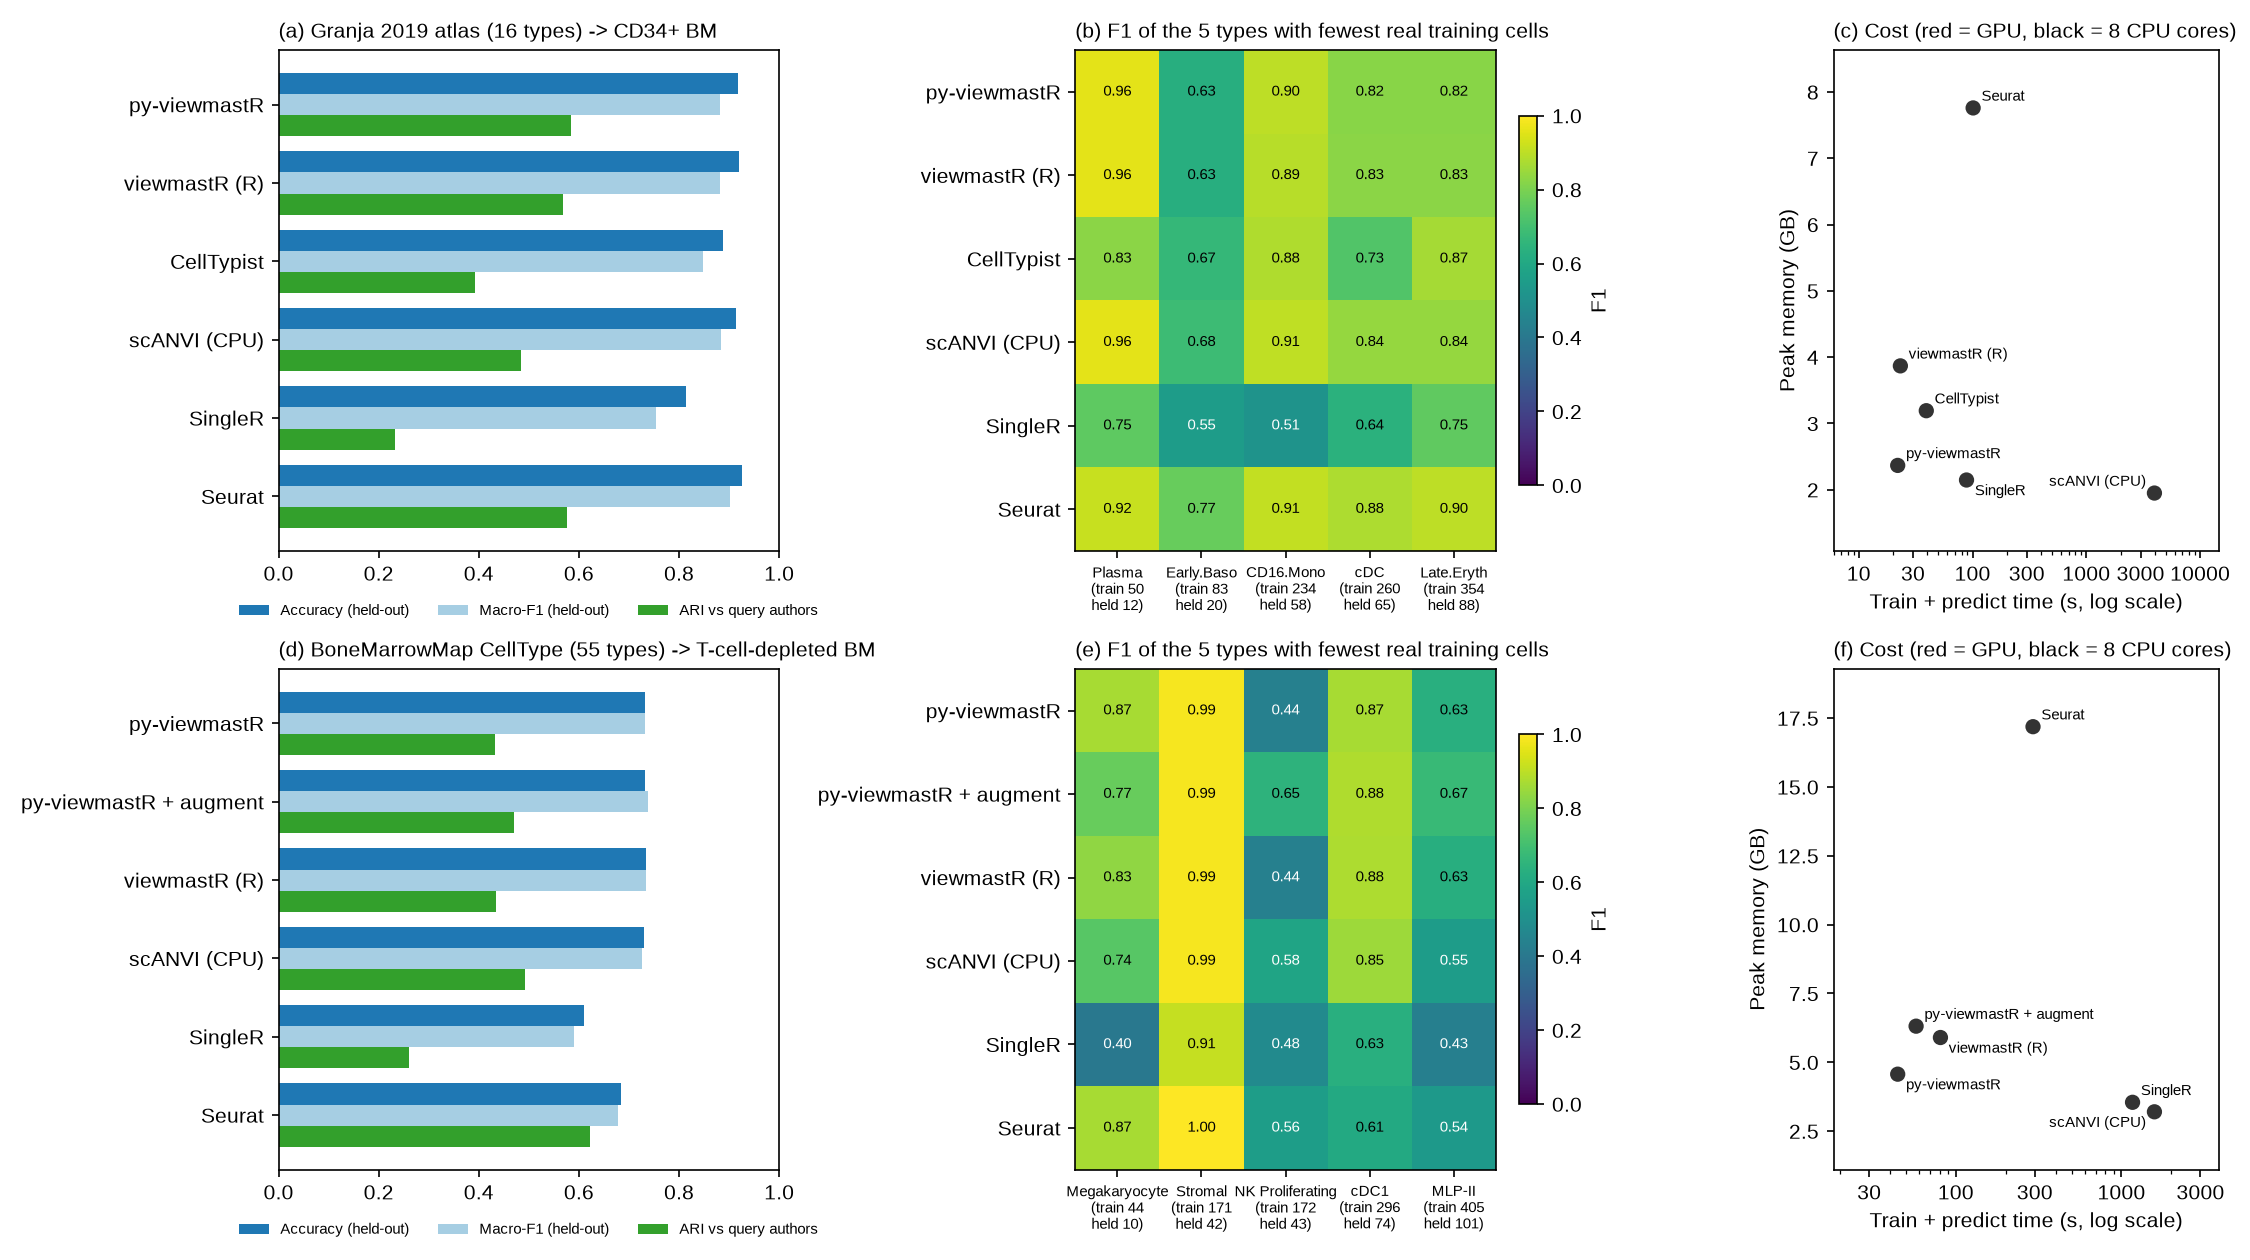
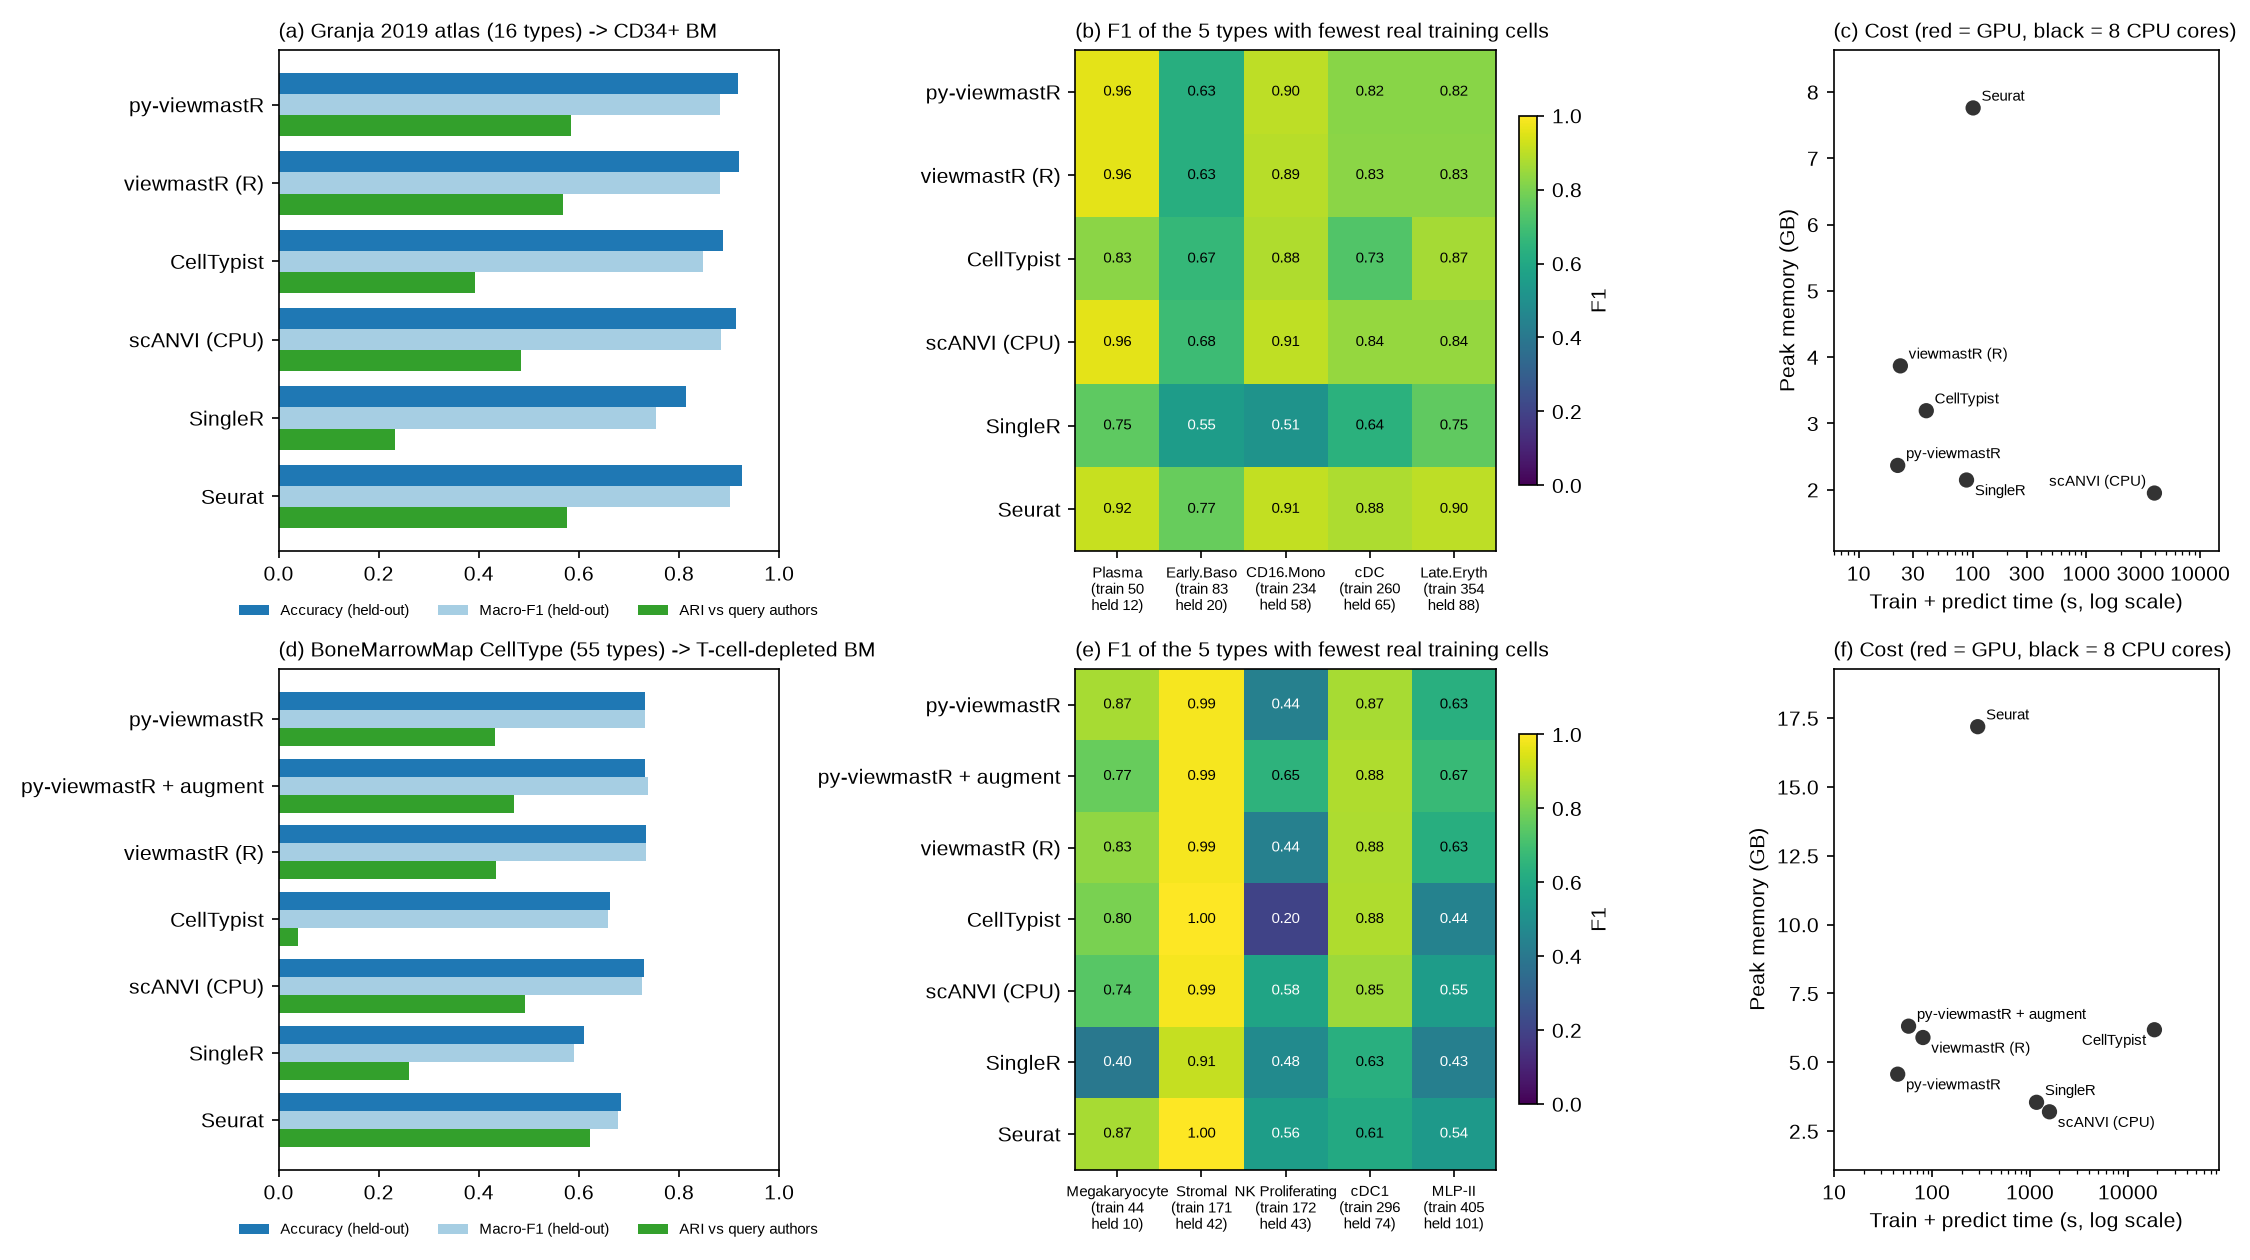
Add the CellTypist bmm row to the benchmark
The CellTypist bmm job finished after 5.2 hours. Add its row to the
metrics and rare-type tables, a short section on its low query ARI,
and fewer x-axis ticks on cost panels that span three or more decades.

diff --git a/benchmarks/summarize.py b/benchmarks/summarize.py
@@ -128,7 +128,7 @@ def main():
         cost_labels.append((ax, names, tot.to_numpy(), r["peak_gb"].to_numpy()))
         ax.set_xscale("log")
         span = np.log10(tot.max() / tot.min())
-        ax.xaxis.set_major_locator(matplotlib.ticker.LogLocator(subs=(1, 2, 5) if span < 1.5 else (1, 3)))
+        ax.xaxis.set_major_locator(matplotlib.ticker.LogLocator(subs=(1, 2, 5) if span < 1.5 else (1, 3) if span < 2.5 else (1,)))
         ax.xaxis.set_major_formatter(matplotlib.ticker.FuncFormatter(lambda v, _: f"{v:g}"))
         ax.xaxis.set_minor_formatter(matplotlib.ticker.NullFormatter())
         ax.margins(x=0.25, y=0.15)

diff --git a/docs/benchmark.md b/docs/benchmark.md
@@ -74,6 +74,7 @@ All settings are each tool's documented defaults, except where the table says ot
 | py-viewmastR | CPU | 0.732 | 0.732 | 0.433 | 0.693 | 44.1 | 0.5 | 4.6 |
 | py-viewmastR + augment | CPU | 0.732 | 0.738 | 0.470 | 0.699 | 57.1 | 0.5 | 6.3 |
 | viewmastR (R) | CPU | 0.734 | 0.734 | 0.434 | 0.696 | 74.8 | 6.0 | 5.9 |
+| CellTypist | CPU | 0.662 | 0.657 | 0.038 | 0.218 | 18,649.2 | 3.1 | 6.2 |
 | scANVI (CPU) | CPU | 0.729 | 0.726 | 0.492 | 0.660 | 1,580.7 | 0.6 | 3.2 |
 | SingleR | CPU | 0.611 | 0.591 | 0.260 | 0.515 | 46.6 | 1,119.8 | 3.5 |
 | Seurat | CPU | 0.683 | 0.678 | 0.622 | 0.710 | 87.6 | 204.8 | 17.2 |
@@ -100,15 +101,28 @@ Each column header gives the number of real training cells / held-out cells.
 | py-viewmastR | 0.87 | 0.99 | 0.44 | 0.87 | 0.63 |
 | py-viewmastR + augment | 0.77 | 0.99 | 0.65 | 0.88 | 0.67 |
 | viewmastR (R) | 0.83 | 0.99 | 0.44 | 0.88 | 0.63 |
+| CellTypist | 0.80 | 1.00 | 0.20 | 0.88 | 0.44 |
 | scANVI (CPU) | 0.74 | 0.99 | 0.58 | 0.85 | 0.55 |
 | SingleR | 0.40 | 0.91 | 0.48 | 0.63 | 0.43 |
 | Seurat | 0.87 | 1.00 | 0.56 | 0.61 | 0.54 |
+
+### CellTypist on `bmm`
+
+CellTypist ran with its default settings (no SGD, the stochastic gradient descent option). On `bmm`, training took 5.2 hours on 8 cores.
+
+| Reading | CellTypist | Range of the other six rows |
+|---|---|---|
+| Accuracy | 0.662 | 0.611 to 0.734 |
+| Macro-F1 | 0.657 | 0.591 to 0.738 |
+| ARI vs query authors | 0.038 | 0.260 to 0.622 |
+| Train time (h) | 5.2 | 0.01 to 0.44 |
+
+The ARI is low. The query predictions also spread over all 55 types. For example, 19 % of the query cells get the label Stromal. The other tools give Stromal to at most 0.3 % of the query cells. CellTypist offers `use_SGD=True` and `mini_batch=True` for large references. This page did not test them.
 
 ### Runs not in these results
 
 | Run | Status |
 |---|---|
-| CellTypist on `bmm` | Not finished with default settings (no SGD) after 5 hours on 8 cores; the job limit is 12 hours. It is not in these results |
 | scANVI on a GPU (both tasks) | Not run: the shared GPU queue did not start the jobs (queued 2.3 and 4.8 hours), so they were cancelled. The scANVI rows above ran on 8 CPU cores, so their times are not GPU times |
 
 ## How to read these results
